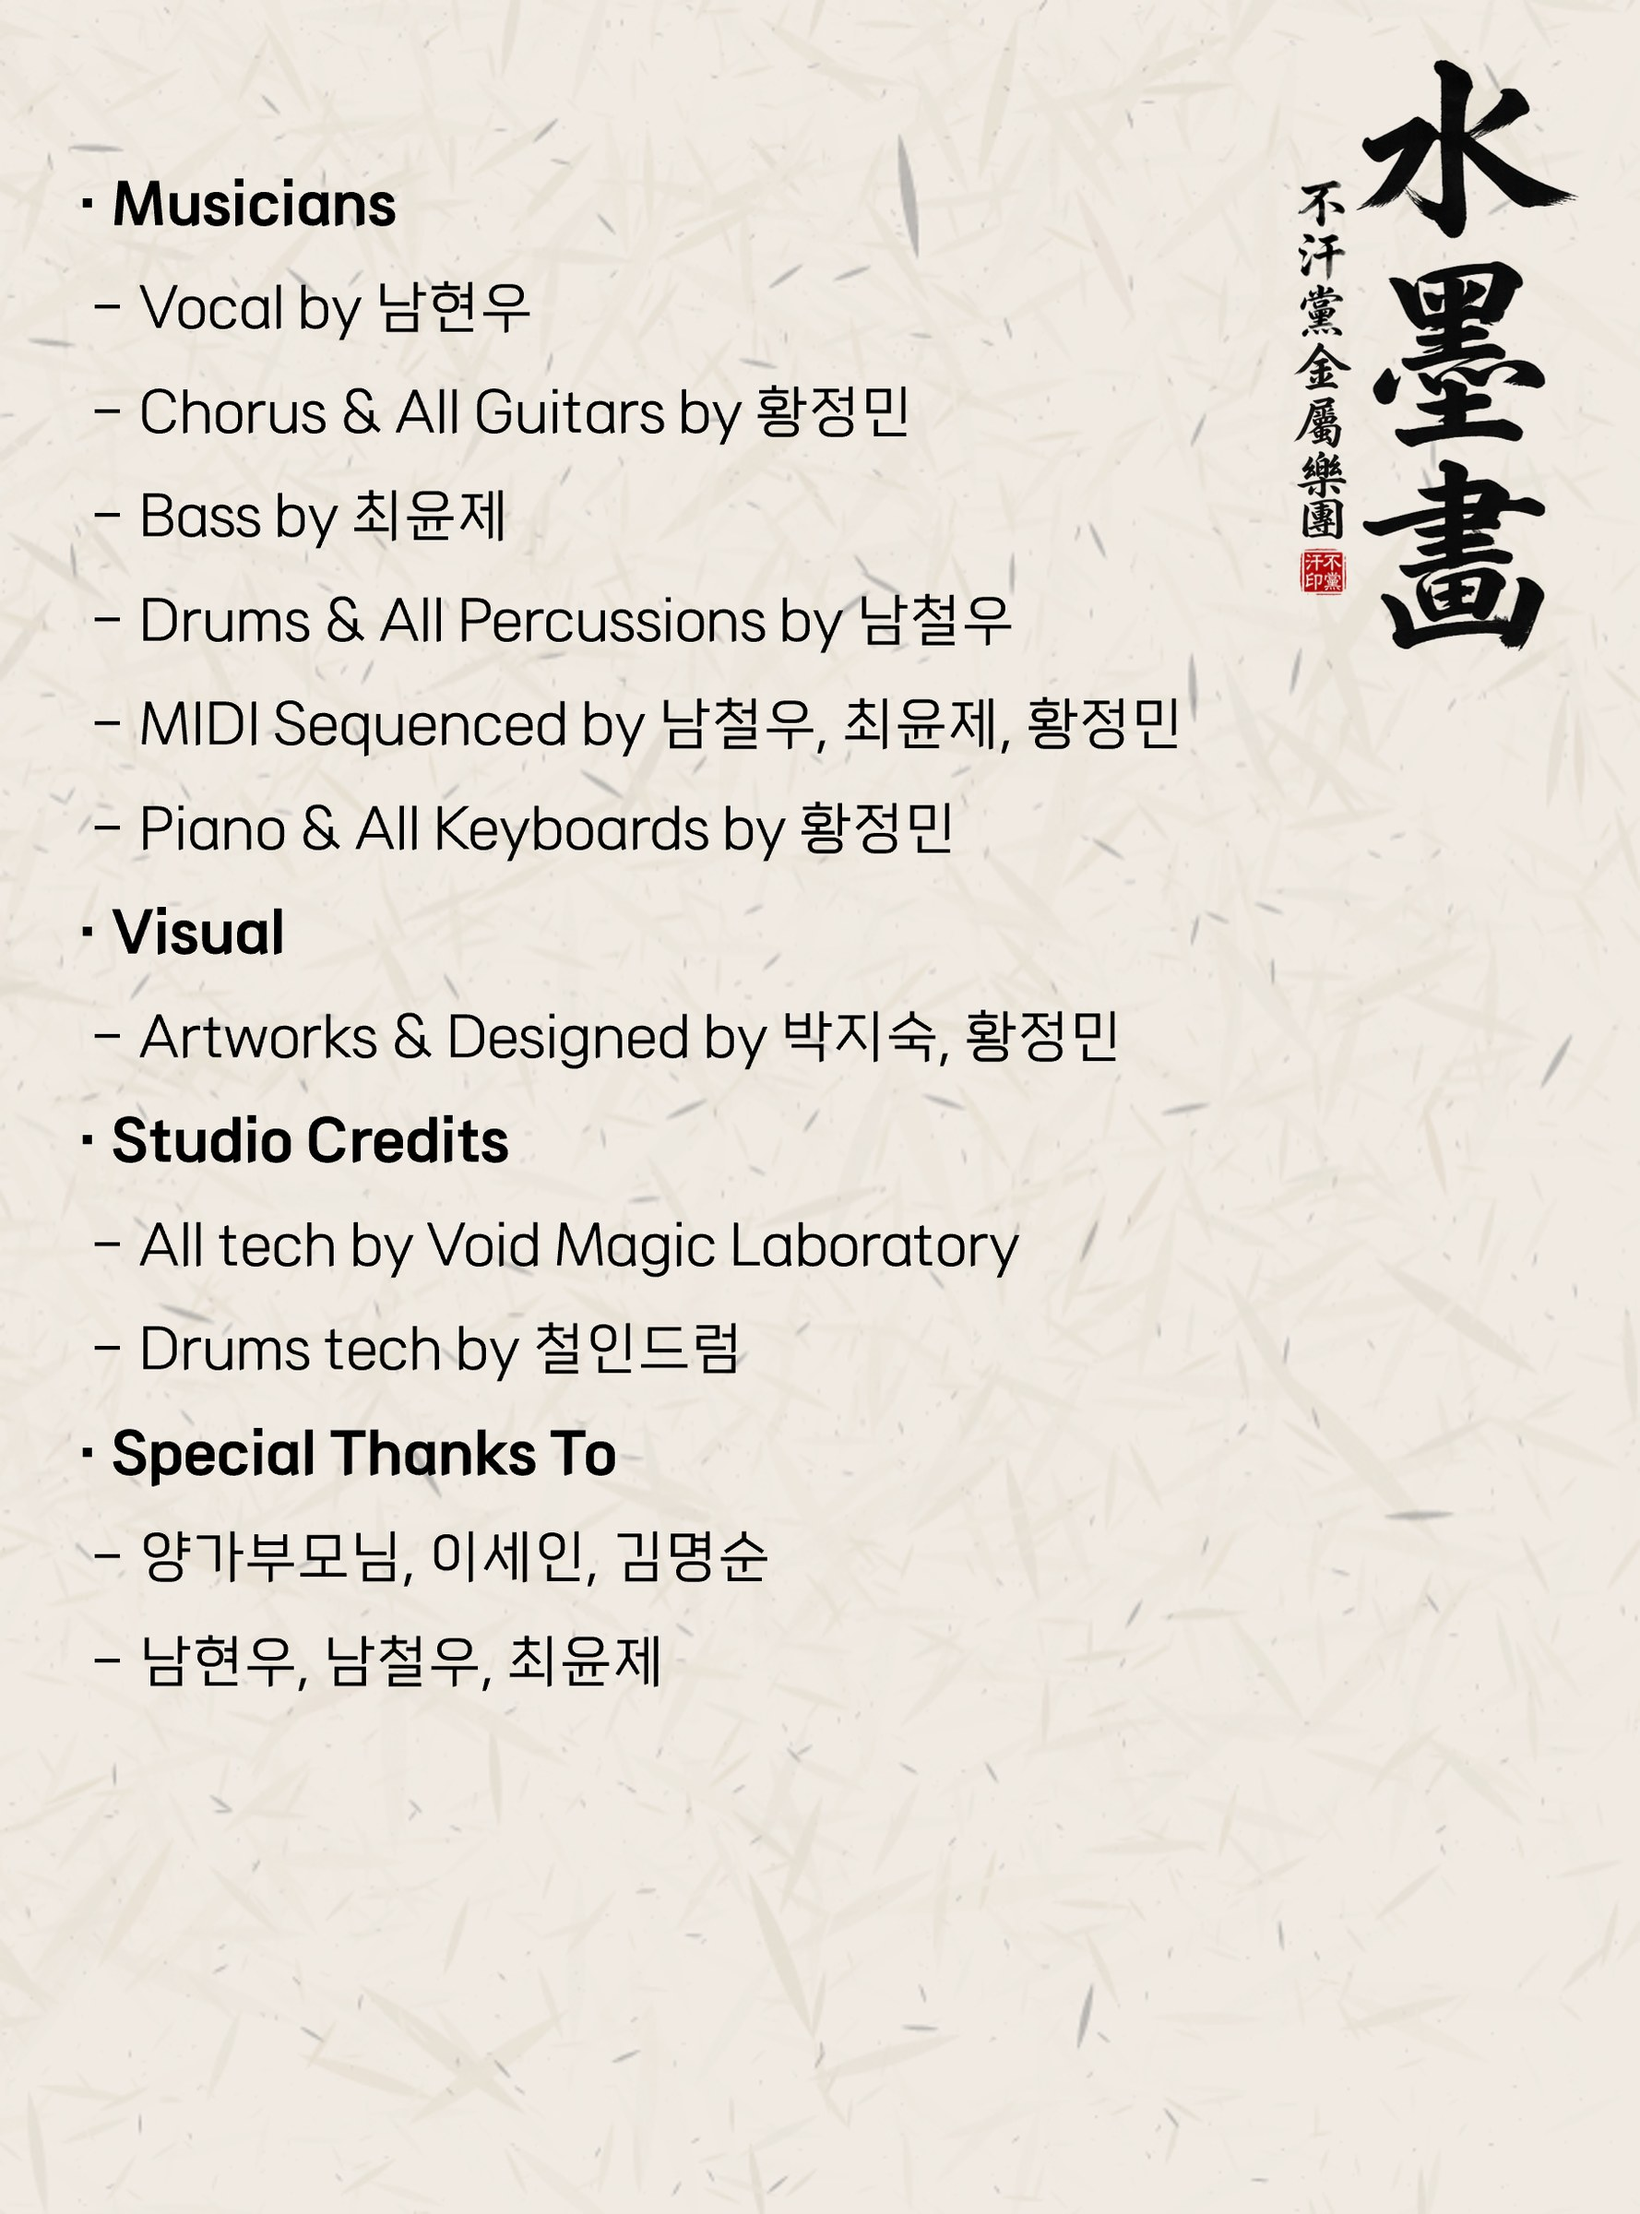
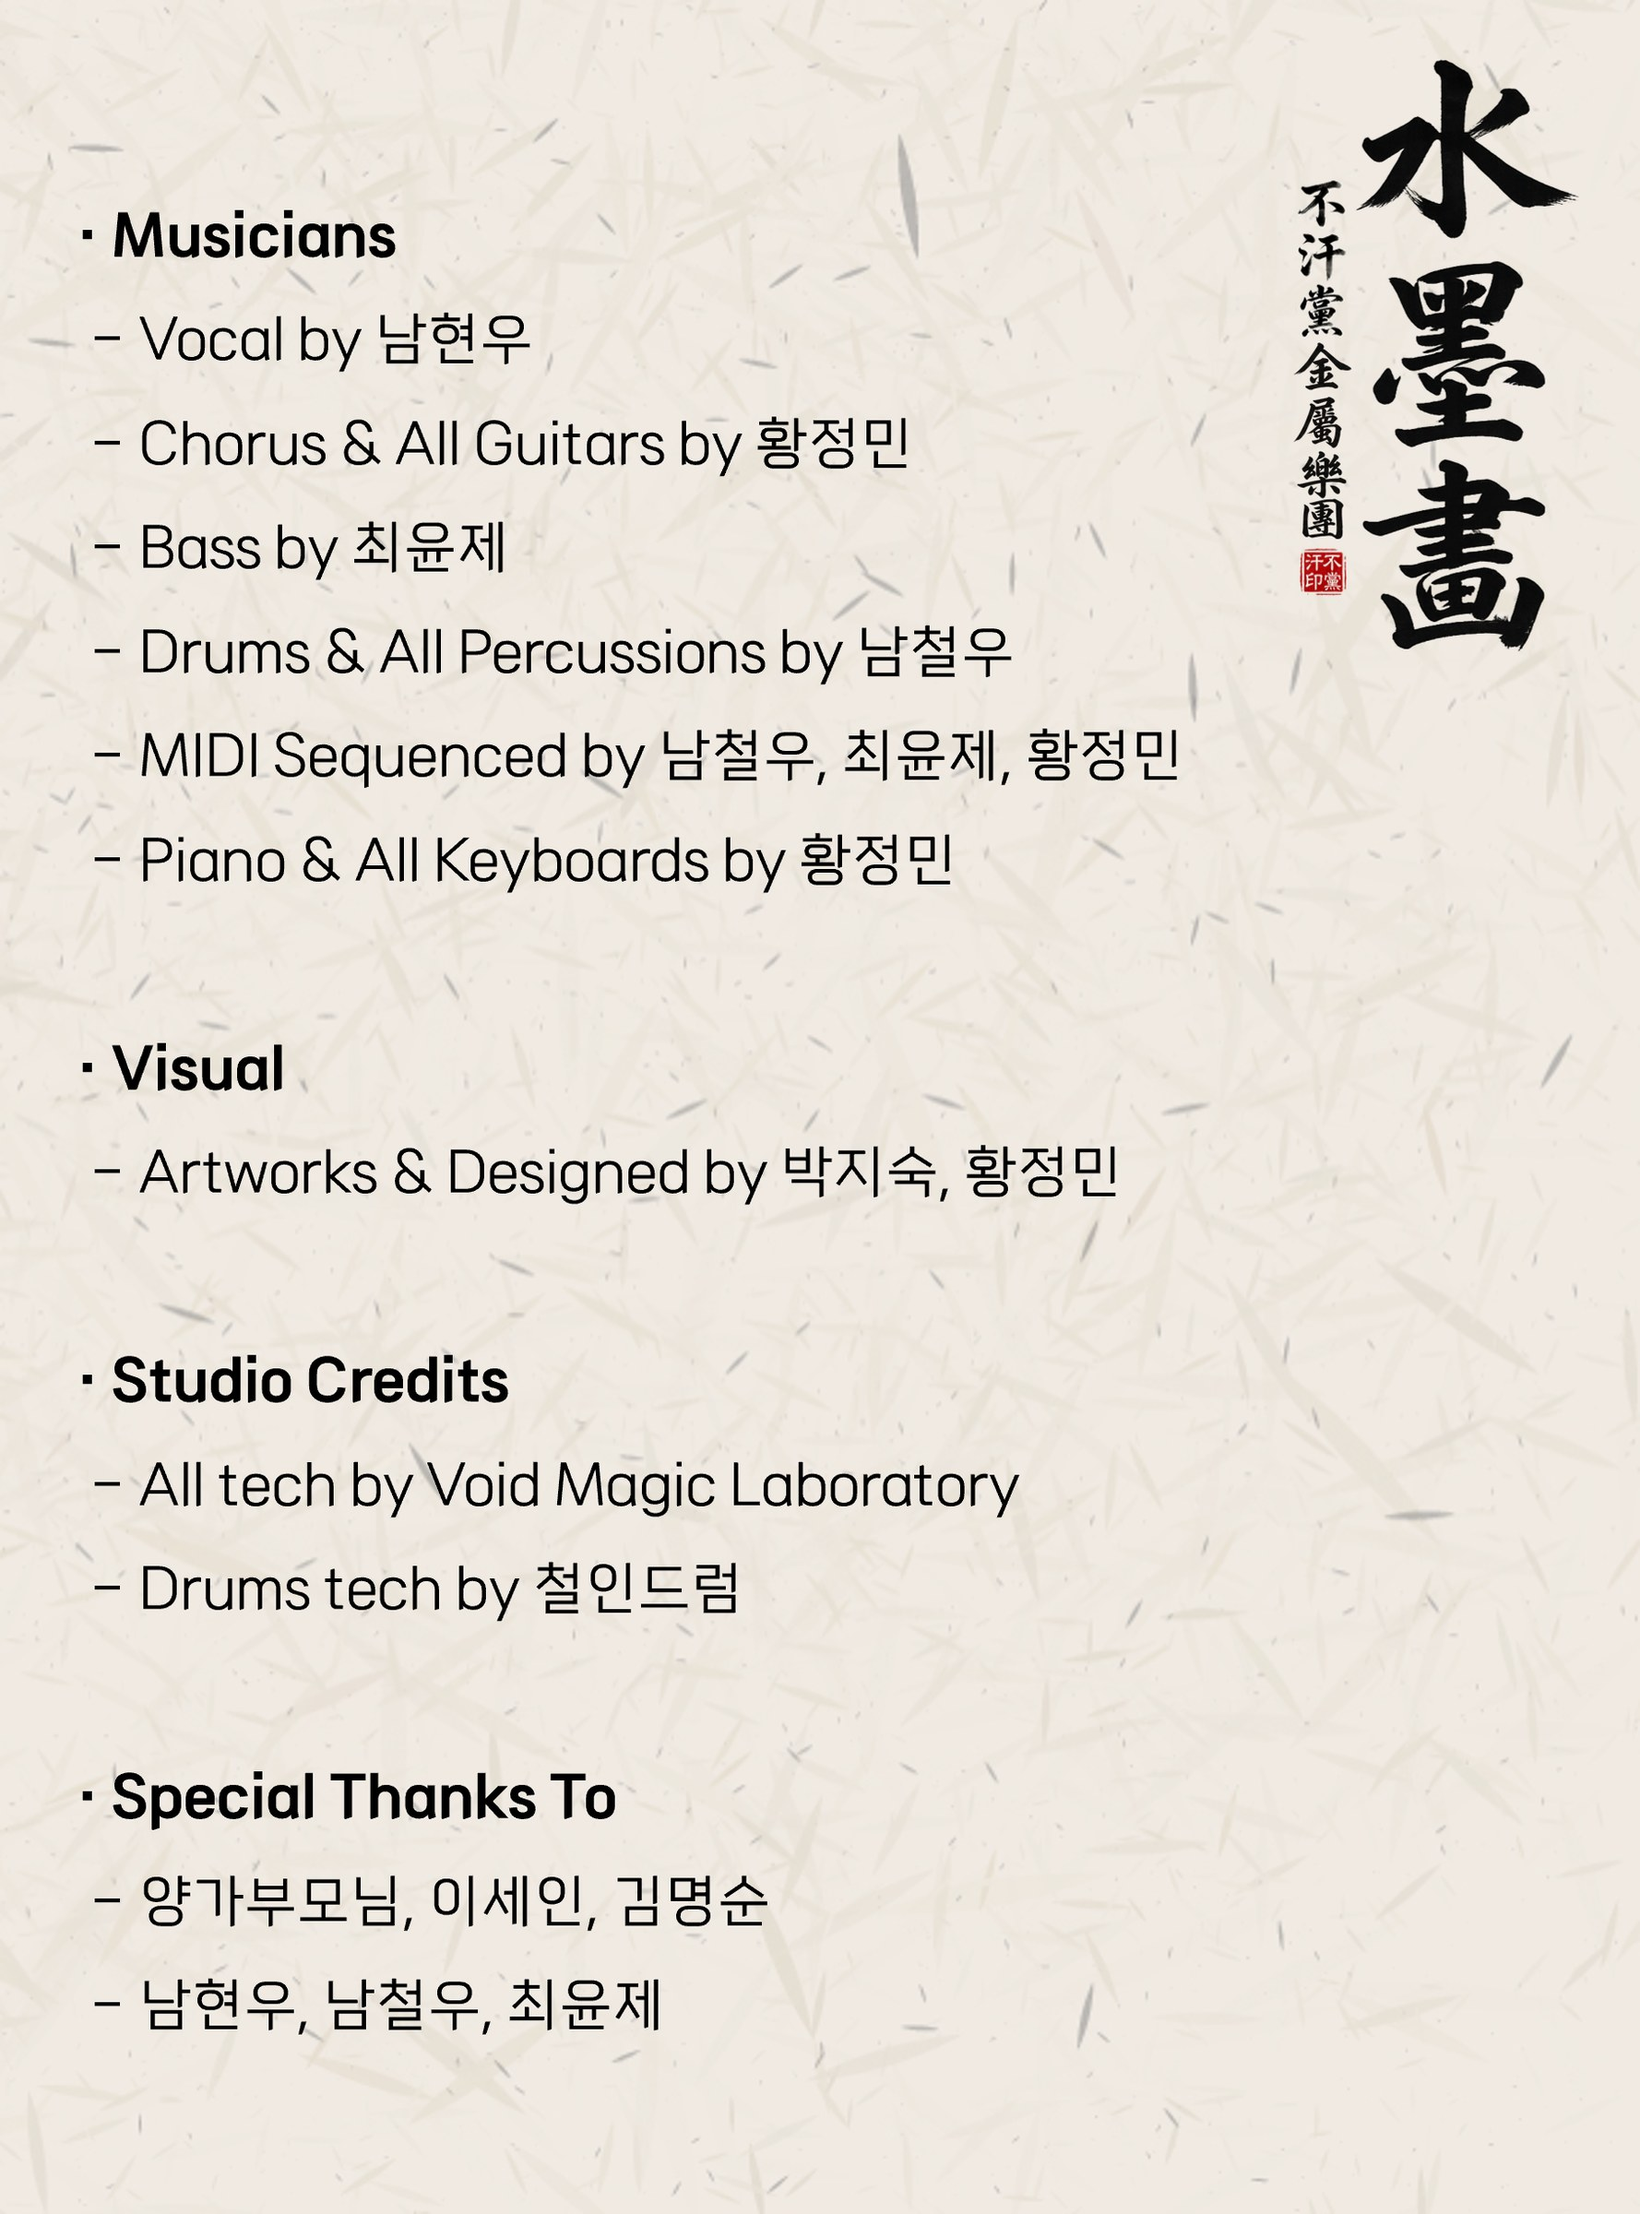
Add files via upload

Changed region(s): [[0.0619, 0.4375, 0.6805, 0.9375], [0.0619, 0.0625, 0.7115, 0.4375], [0.464, 0.4375, 0.5259, 0.4688]]

diff --git a/index.html b/index.html
@@ -23,7 +23,6 @@
     background: var(--bg);
   }
   body {
-    background: var(--bg);
     color: var(--ink);
     font-family: "Nanum Myeongjo", "Noto Serif KR", "AppleMyungjo", Georgia, serif;
   }
@@ -43,6 +42,17 @@
     pointer-events: none;
     background: radial-gradient(ellipse at center, transparent 50%, rgba(120, 80, 50, .18) 100%);
     z-index: -1;
+  }
+  /* 고정 배경: 스크롤해도 움직이지 않음 (iOS에서도 동작하도록 fixed 레이어로 구현) */
+  .bg {
+    position: fixed; inset: 0;
+    z-index: -2;
+    pointer-events: none;
+    background: var(--bg) url("images/bg.jpg") center center / cover no-repeat;
+  }
+  /* 세로 화면(모바일): 비율 유지한 채 화면을 채우고 왼쪽을 잘라 오른쪽 부분을 보여줌 */
+  @media (orientation: portrait) {
+    .bg { background-position: right center; }
   }
 
   /* 한 화면에 한 장 */
@@ -138,7 +148,7 @@
   .intro {
     position: fixed; inset: 0;
     z-index: 200;
-    background: var(--bg);
+    background: transparent;
     display: flex; flex-direction: column;
     align-items: center; justify-content: center;
     gap: 40px;
@@ -170,6 +180,8 @@
     50% { box-shadow: 0 0 0 14px rgba(179,102,74,0); }
   }
   body.locked { overflow: hidden; }
+  main { transition: opacity 1.2s ease .3s; }
+  body.locked main { opacity: 0; visibility: hidden; }
   body.locked .mini { opacity: 0; pointer-events: none; }
 
   /* 확대 보기 */
@@ -202,6 +214,8 @@
 </style>
 </head>
 <body class="locked">
+
+<div class="bg" aria-hidden="true"></div>
 
 <div class="intro" id="intro" role="button" tabindex="0" aria-label="음악 재생하고 들어가기">
   <img src="images/main.jpg" alt="수묵화">
